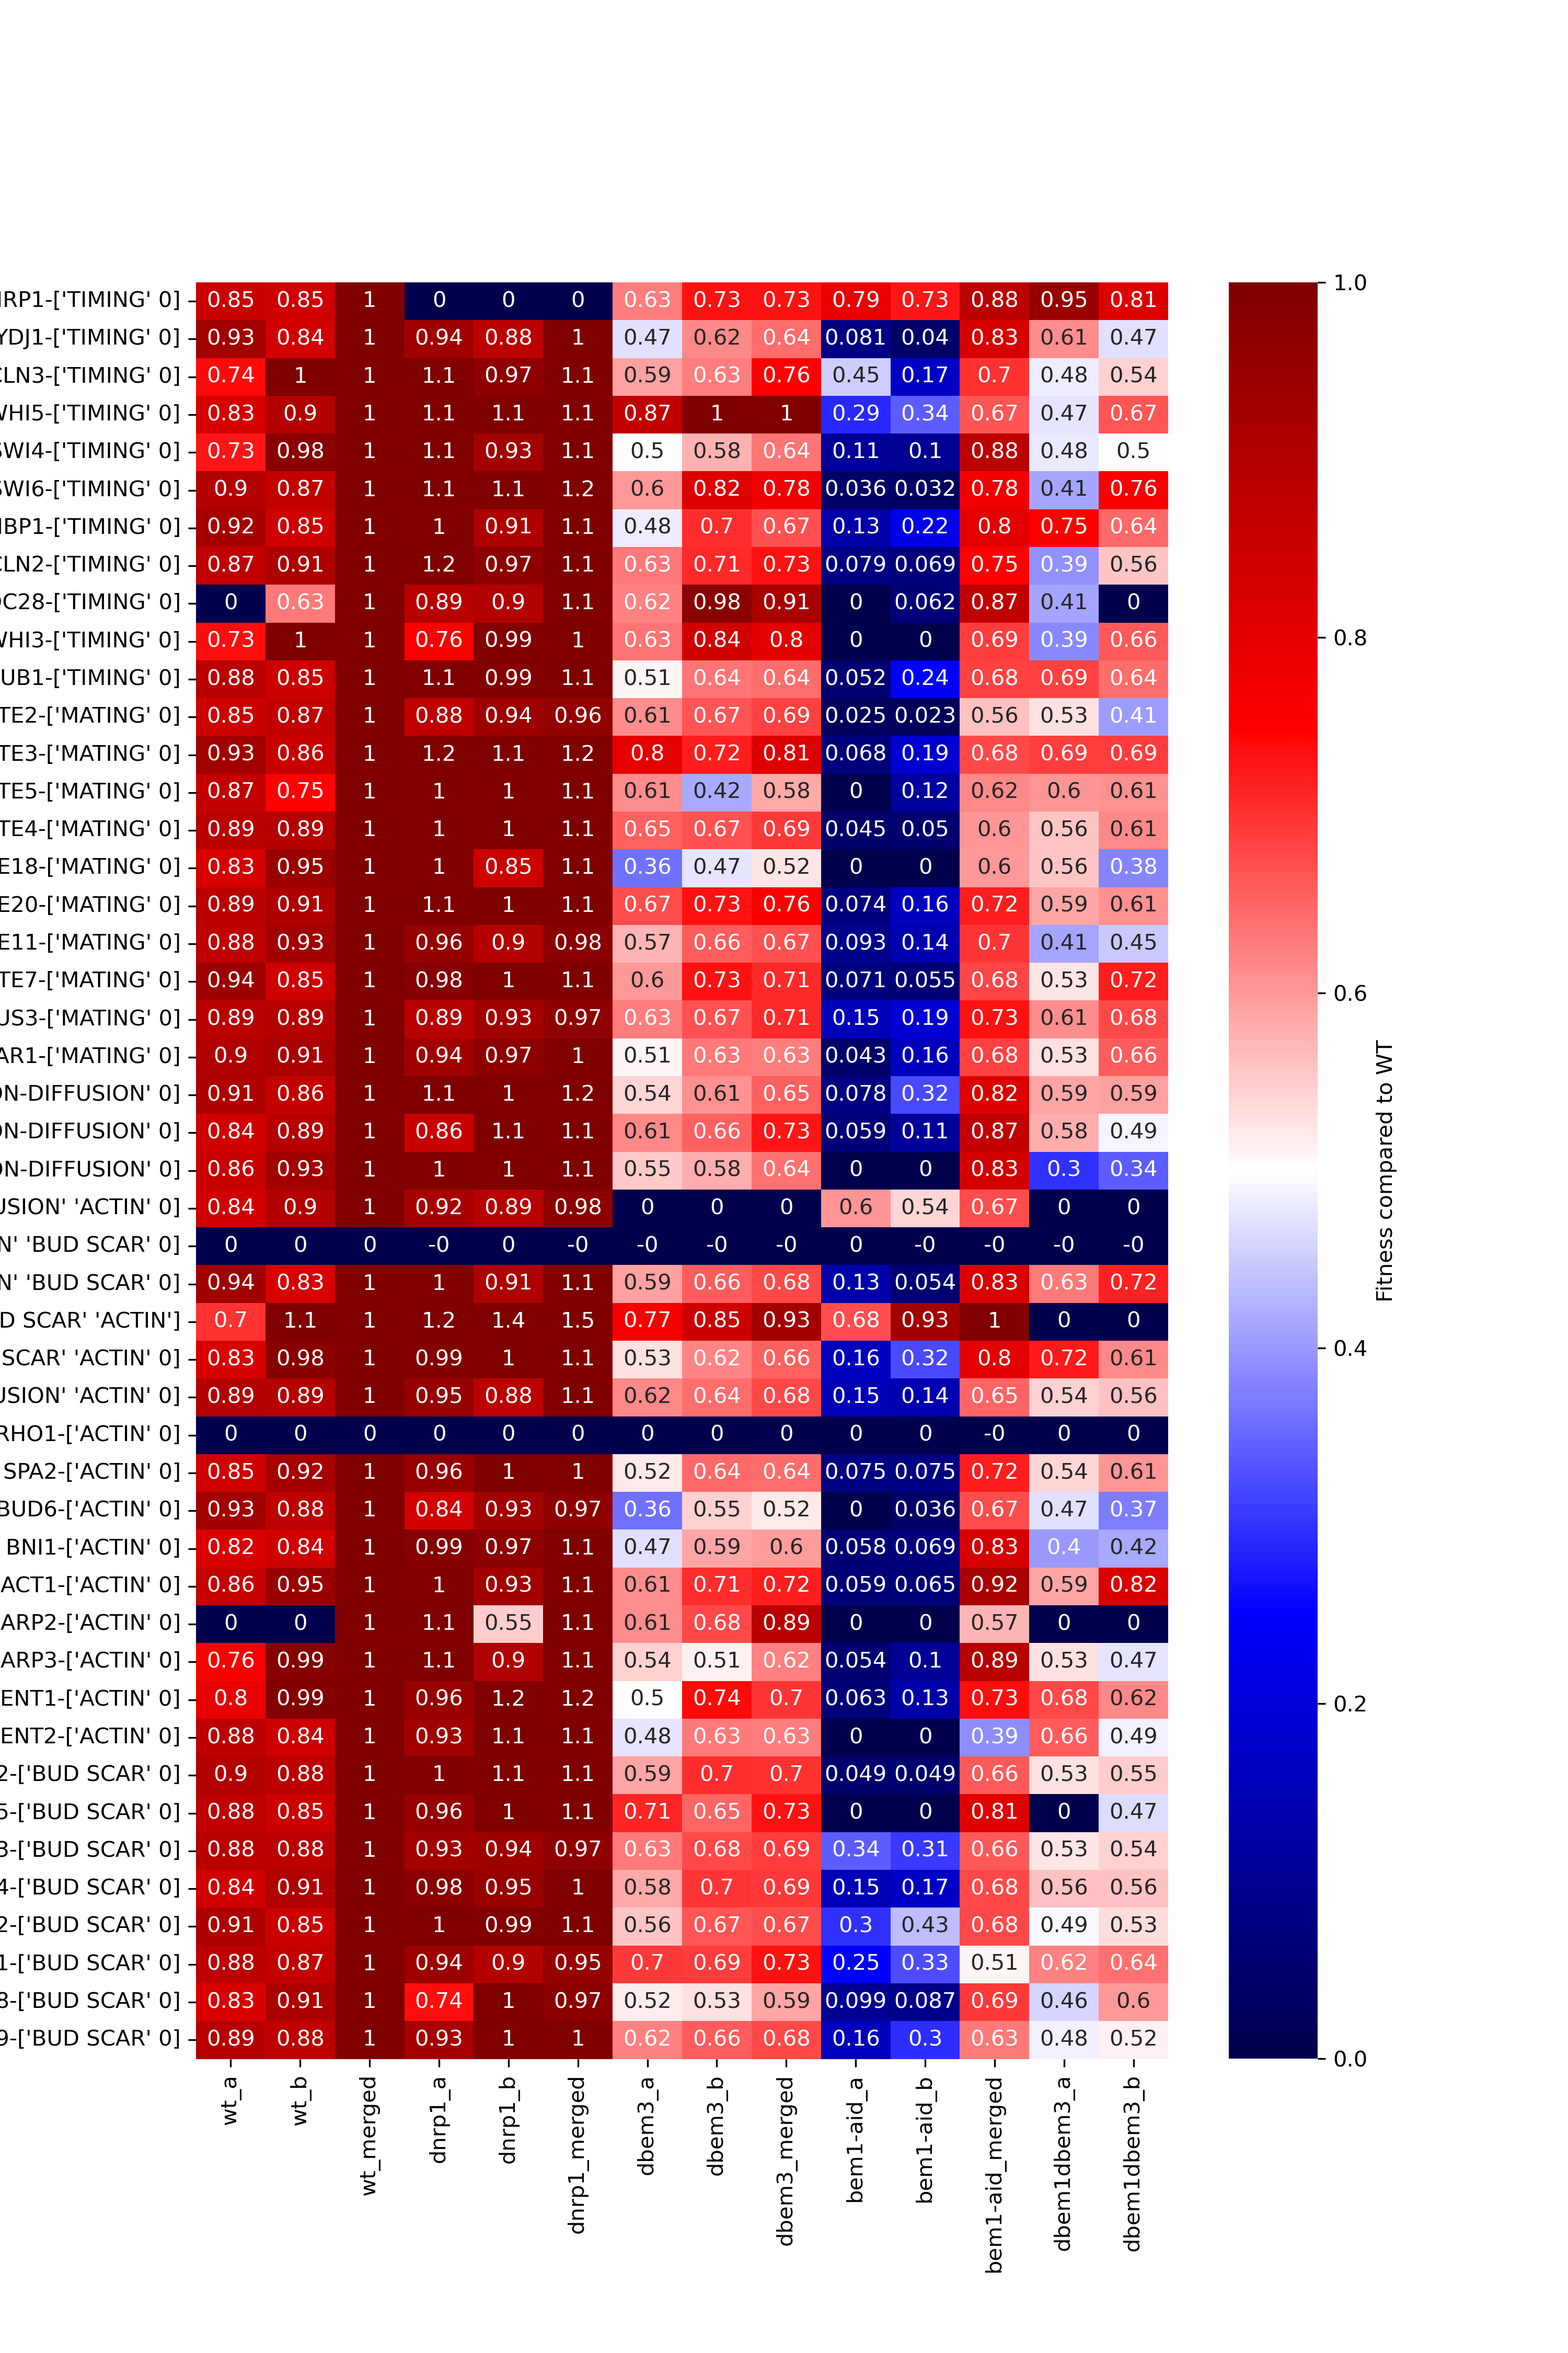
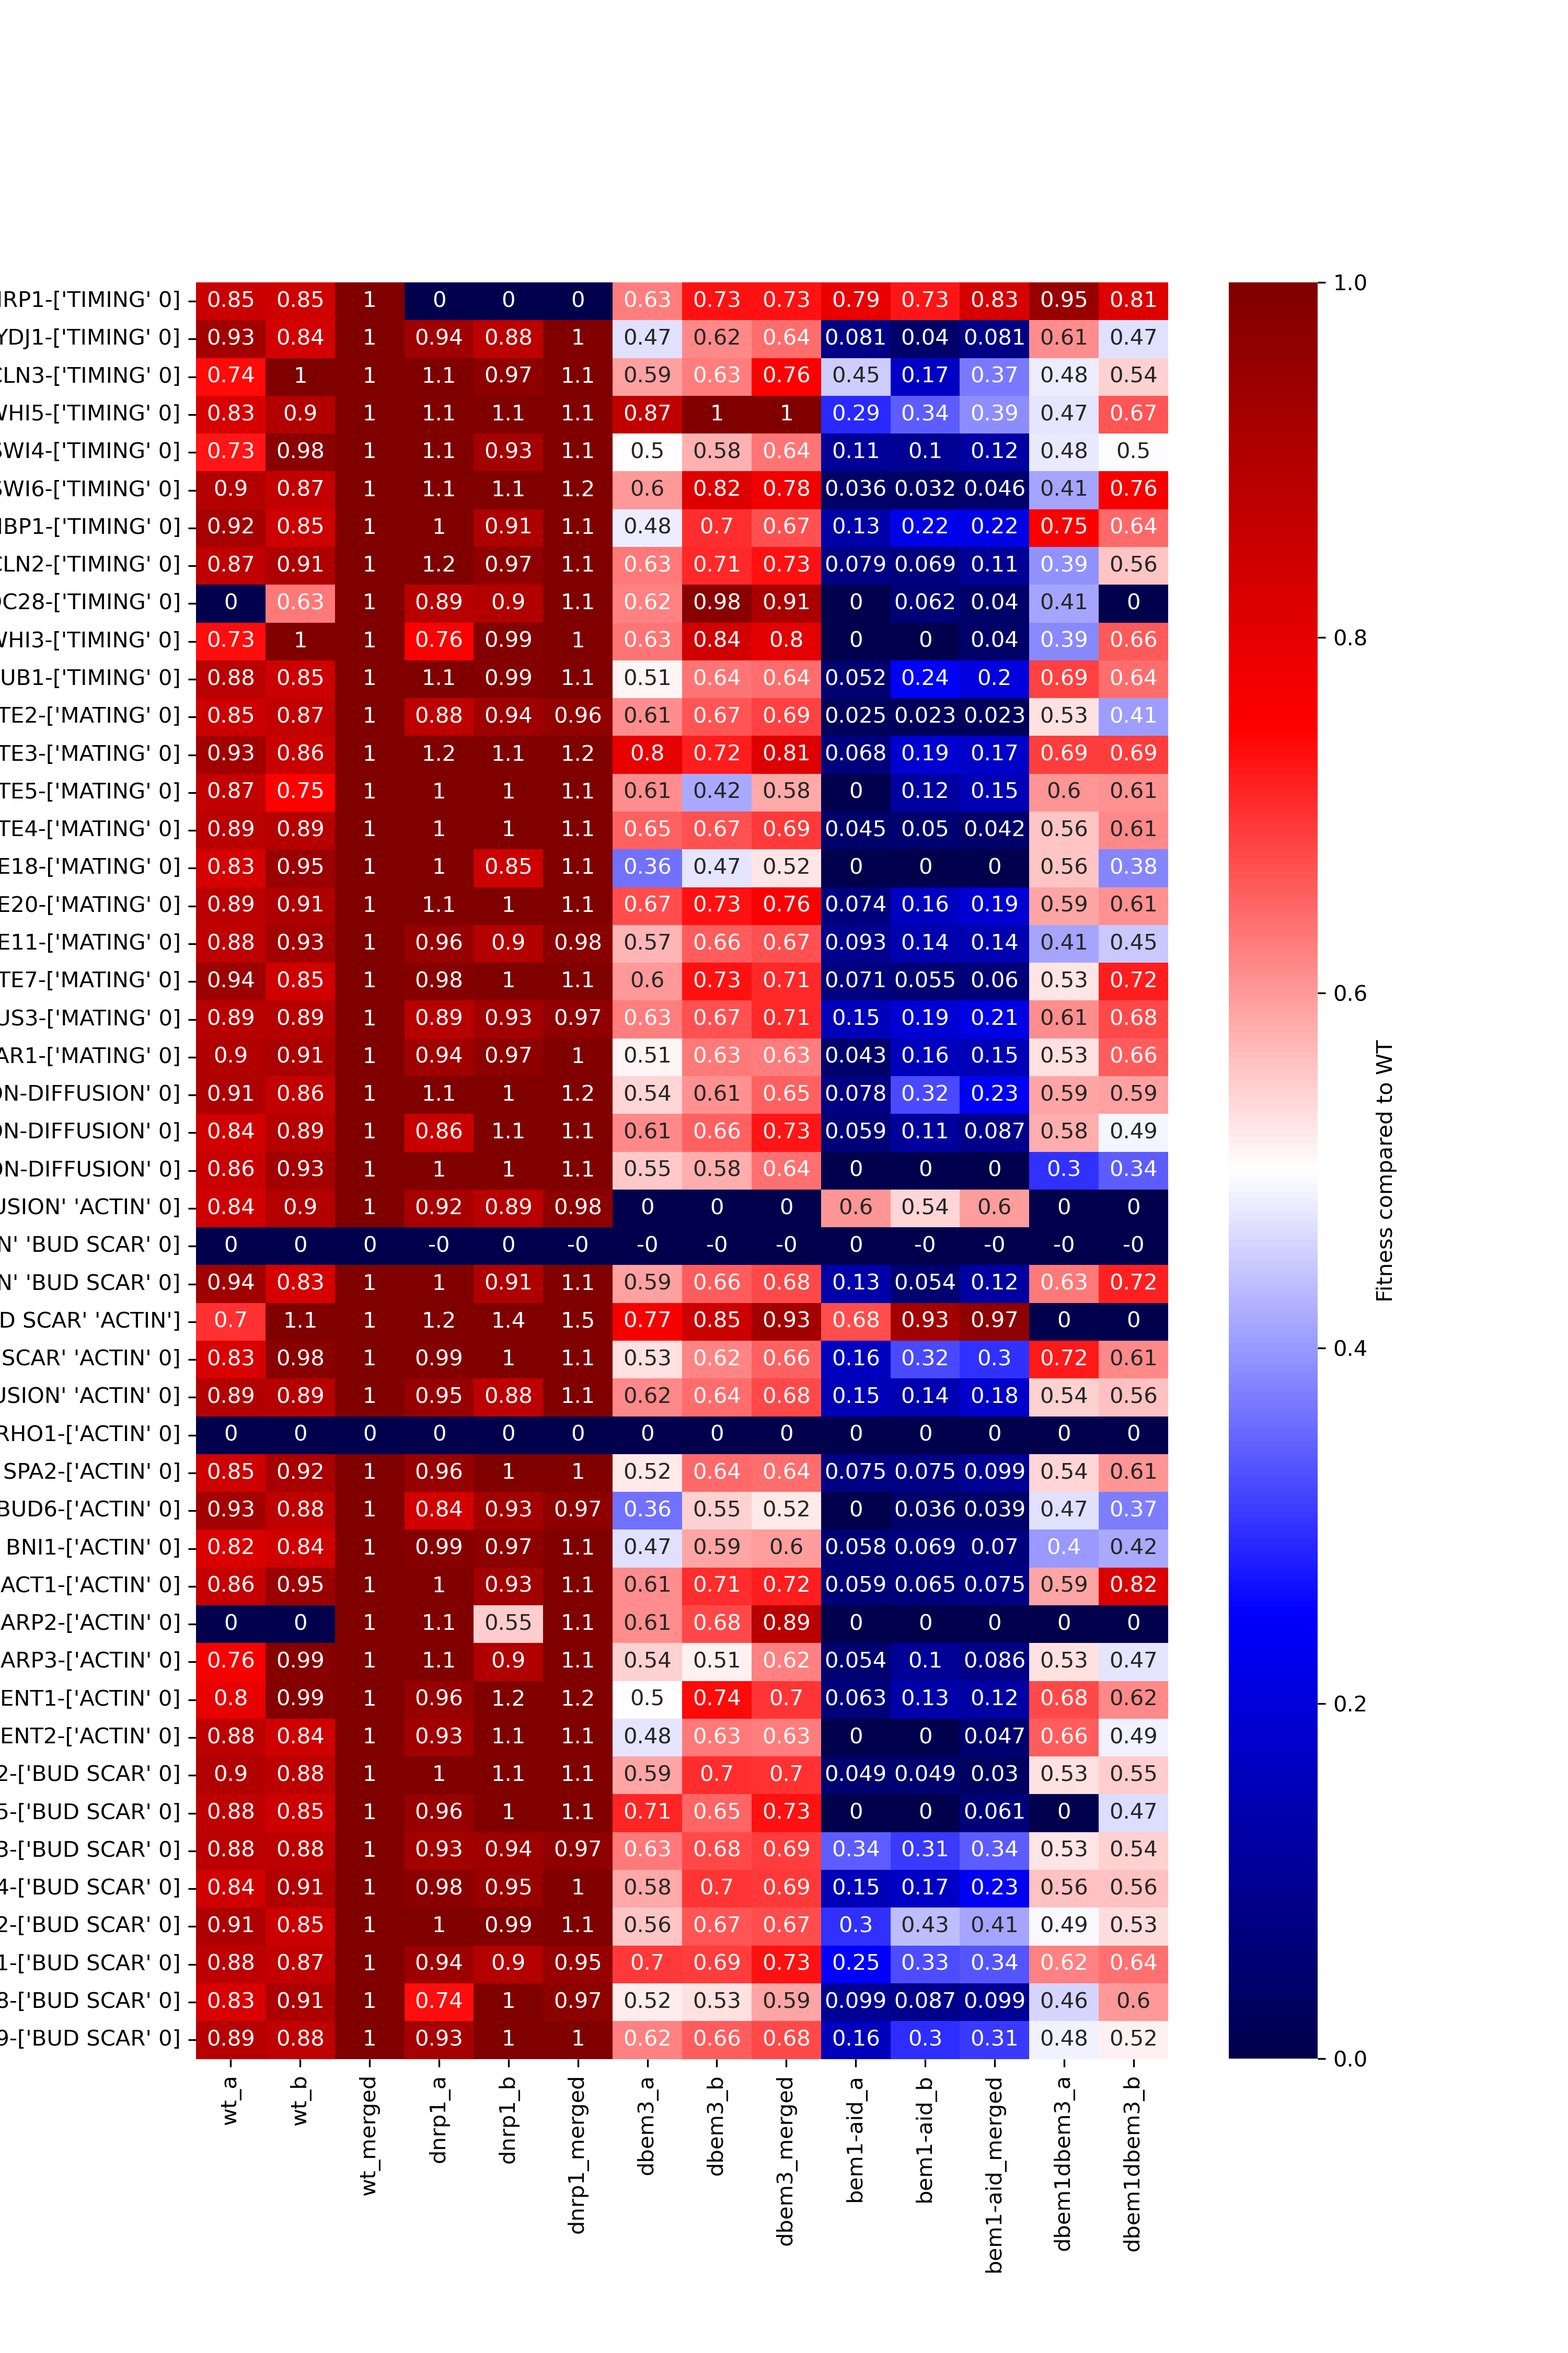
update with new data from dbem1_merged

Changed region(s): [[0.589, 0.0933, 0.682, 0.9022]]

diff --git a/src/python-scripts-from-notebooks/analysis_evolutionary_trajectory.py b/src/python-scripts-from-notebooks/analysis_evolutionary_trajectory.py
@@ -408,11 +408,12 @@ labels=[]
 for i in np.arange(0,len(chosen_polarity_genes)):
     labels.append(chosen_polarity_genes[i]+"-"+str(polarity_genes.loc[chosen_polarity_genes[i],:].unique()))
 ax.set_yticklabels(labels);
-#fig.savefig("../figures/fig_heatmap_fitness_normalized_wt_with_replicates-and-function.png",dpi=300)
+fig.savefig("../figures/fig_heatmap_fitness_normalized_wt_with_replicates-and-function.png",dpi=300)
 # -
 
-g=sns.clustermap(array2heatmap,cmap="seismic",vmin=0,vmax=1,standard_scale=1,xticklabels=backgrounds_heatmap,
+g=sns.clustermap(array2heatmap,cmap="seismic",vmin=0,vmax=1,xticklabels=backgrounds_heatmap,
 yticklabels=chosen_polarity_genes ,cbar=True,annot=True,cbar_kws={'label': 'Fitness compared to WT'})
+g.fig.set_size_inches((15,15))
 g.savefig("../figures/fig_heatmap_fitness_standarized_clustermap.png",dpi=300)
 
 # +
